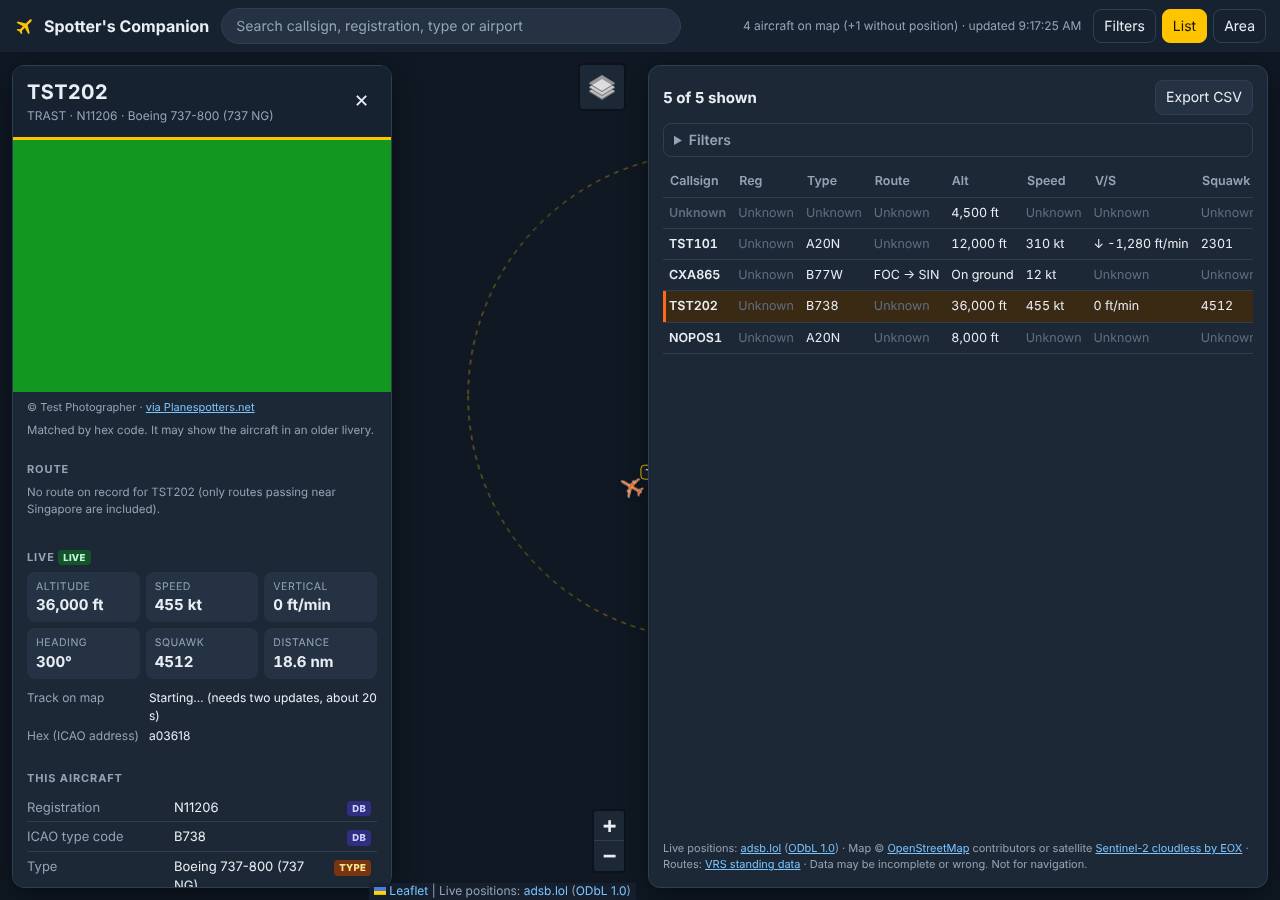
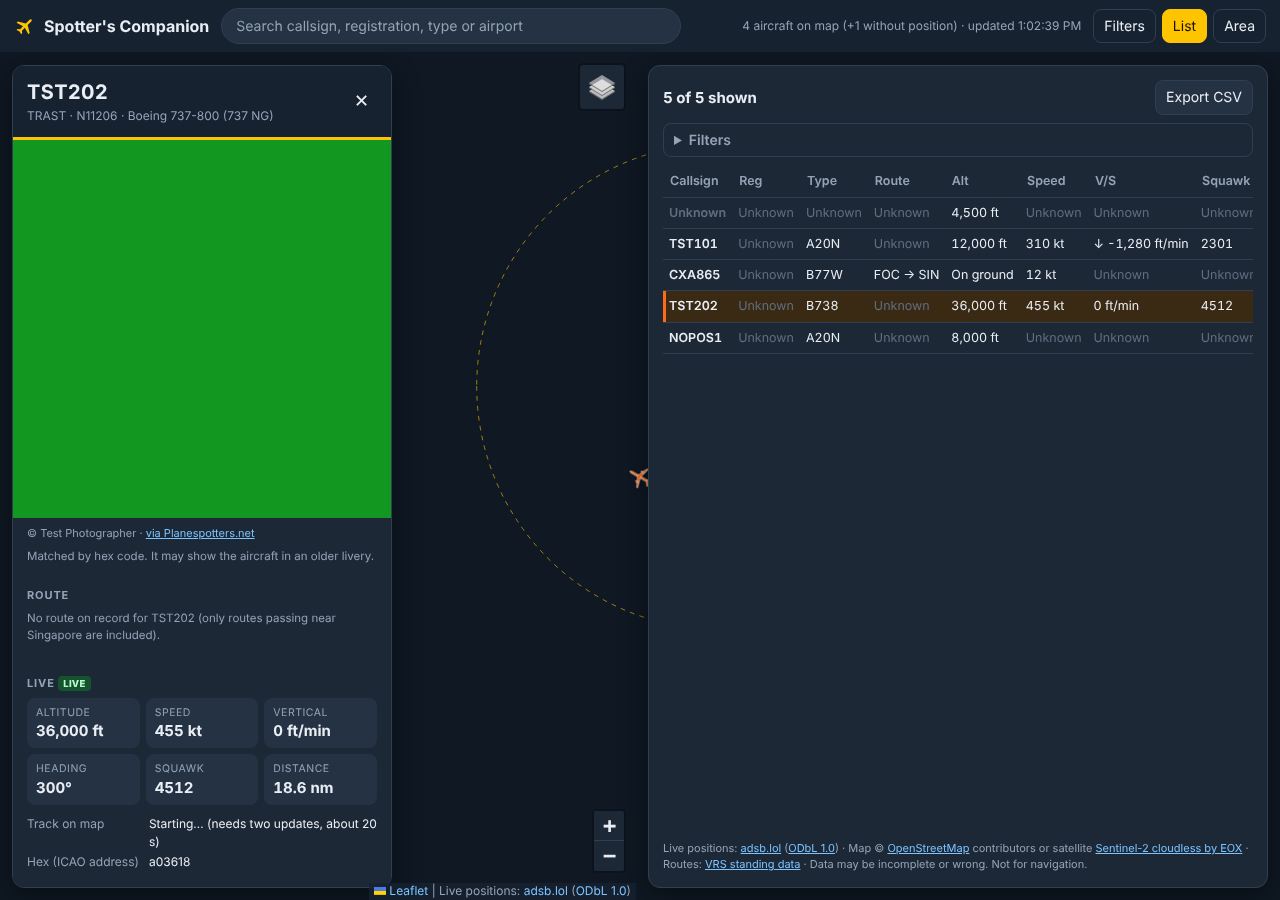
Flight card: link to airfleets.net search for the aircraft's registration
Claude-Session: https://claude.ai/code/session_013HS1a15XG4cim1Vt8HA39U

diff --git a/js/infoPanel.js b/js/infoPanel.js
@@ -53,6 +53,13 @@ function safeLink(url, text) {
   return a;
 }
 
+// Search link on airfleets.net (history, previous operators, delivery date…). Only letters, digits and '-'
+// are kept, so nothing odd can end up in the URL.
+export function airfleetsUrl(registration) {
+  const reg = String(registration ?? '').trim().toUpperCase().replace(/[^A-Z0-9-]/g, '');
+  return reg ? `https://www.airfleets.net/recherche/?key=${encodeURIComponent(reg)}` : null;
+}
+
 export function initInfoPanel(element, providerName) {
   panel = element;
   liveSourceName = providerName;
@@ -157,6 +164,15 @@ function renderDetails(ac, db, dbFailed, meta, type, typeFailed, variant) {
   known('Exact model', exact, exactTag);
   known('Manufacturer', type?.manufacturer, TYPE());
   parts.push(t1);
+  // airfleets.net has no open data, so we only link to its own search page for this registration.
+  const regUrl = airfleetsUrl(reg);
+  if (regUrl) {
+    const more = h('p', 'info__more');
+    const a = safeLink(regUrl, `More about ${reg} on airfleets.net ↗`);
+    a.className = 'info__more-link';
+    more.append(a);
+    parts.push(more);
+  }
   if (missing.length) parts.push(h('p', 'info__note', `Unknown (not in our databases): ${missing.join(', ')}.`));
   // Crowd-sourced databases sometimes disagree; say so rather than silently picking one.
   const disagree = [];

diff --git a/css/style.css b/css/style.css
@@ -296,3 +296,11 @@ button.primary { background: var(--accent); color: var(--accent-text); border-co
   .drawer, .drawer--small { left: 8px; right: 8px; top: 8px; bottom: 8px; width: auto; }
   .drawer--small { bottom: auto; }
 }
+
+/* "More about … on airfleets.net" link under the aircraft details */
+.info__more { margin: 6px 0 2px; }
+.info__more-link {
+  display: inline-block; padding: 5px 10px; border-radius: 6px; font-size: 12px; text-decoration: none;
+  border: 1px solid var(--accent); color: var(--accent);
+}
+.info__more-link:hover { background: var(--accent); color: #111; }

diff --git a/README.md b/README.md
@@ -164,6 +164,7 @@ before you publish.**
 | [Virtual Radar Server standing data](https://github.com/vradarserver/standing-data) (routes + airports; also used by adsb.lol) | Flight routes: callsign → origin, stops, destination | No | Static file (`data/routes.json`, rebuilt monthly) | [CC0 1.0](https://creativecommons.org/publicdomain/zero/1.0/): no restrictions | "ROUTE" tag in the panel (credited even though CC0 doesn't require it) |
 | [Virtual Radar Server standing data](https://github.com/vradarserver/standing-data), airlines file | Airline name and IATA code from the callsign (`data/airlines.json`) | No | Static file (rebuilt monthly) | [CC0 1.0](https://creativecommons.org/publicdomain/zero/1.0/) | Credited with the routes |
 | `data/aircraft_types.json` (my own table) | Model names, engine options | – | – | Built from EASA/FAA type certificate data sheets, regulator notices and manufacturer pages, each cited per row | Sources listed in the panel |
+| [airfleets.net](https://www.airfleets.net) | **Link only**: "More about … on airfleets.net" opens its search for the registration in a new tab | – | Nothing is fetched or copied; it's an ordinary link | No open licence or API, so its data is not used in the app | – |
 
 **Not used:**
 - **OpenSky Network** for live data. Its terms require a written agreement for "operational" use
